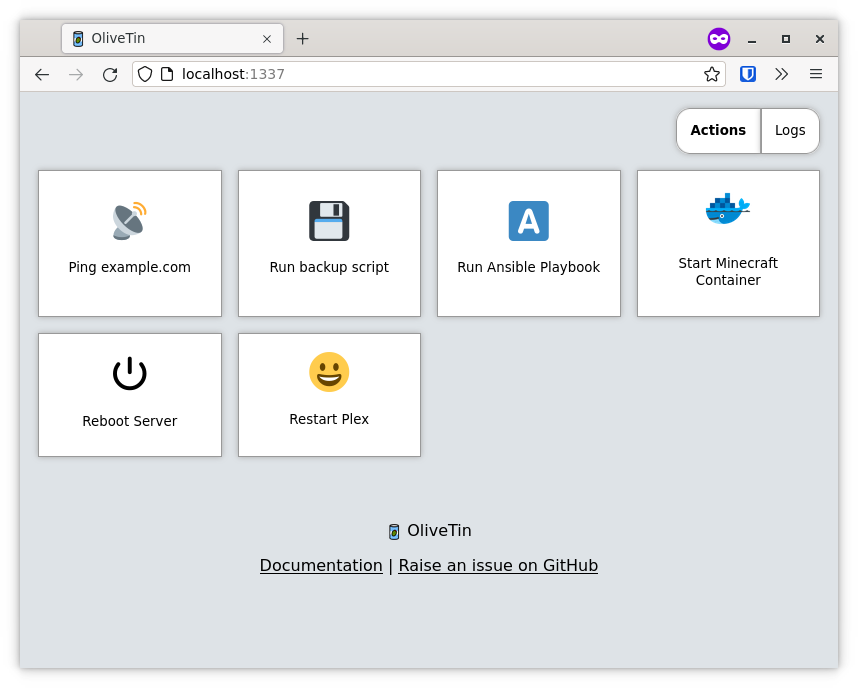
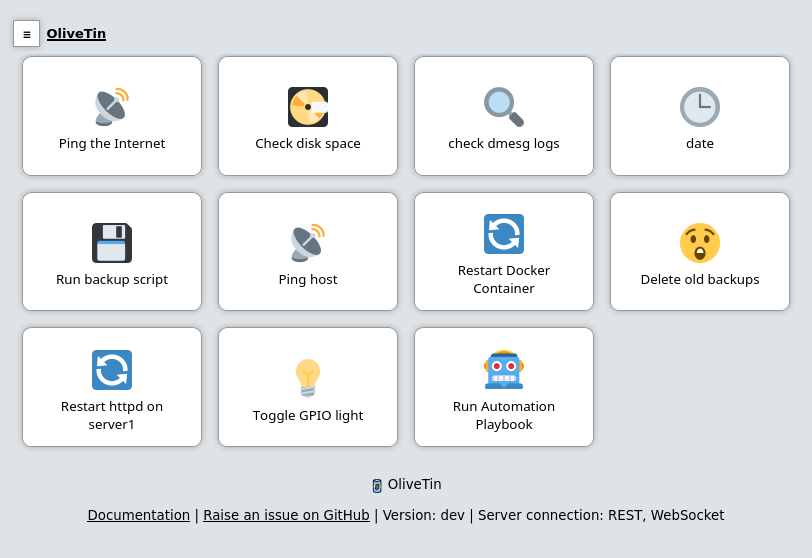
Fix horrendously old screenshots

diff --git a/index.html b/index.html
@@ -107,8 +107,8 @@
   <span class="pl-c"><span class="pl-c">#</span> Docs: https://docs.olivetin.app/action-ssh.html</span>
 - <span class="pl-ent">title</span>: <span class="pl-s">restart httpd</span>
   <span class="pl-ent">icon</span>: <span class="pl-s">restart</span>
-  <span class="pl-ent">shell</span>: <span class="pl-s">ssh root@webserver1 'service httpd restart'</span></pre><div class="zeroclipboard-container">
-  </div></div>
+  <span class="pl-ent">shell</span>: <span class="pl-s">ssh root@webserver1 'service httpd restart'</span></pre>
+</div>
 					<li><strong>Responsive</strong> - great for tablets and mobile, with a touch-friendly UI</li>
 					<li><strong>Dark mode</strong> - for those of you that roll that way.</li>
 					<li><strong>Accessible</strong> - passes all the accessibility checks in Firefox, and issues with accessibility are taken seriously.</li>
